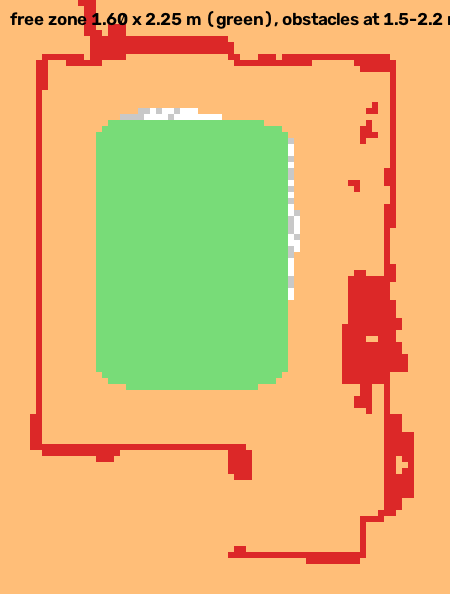
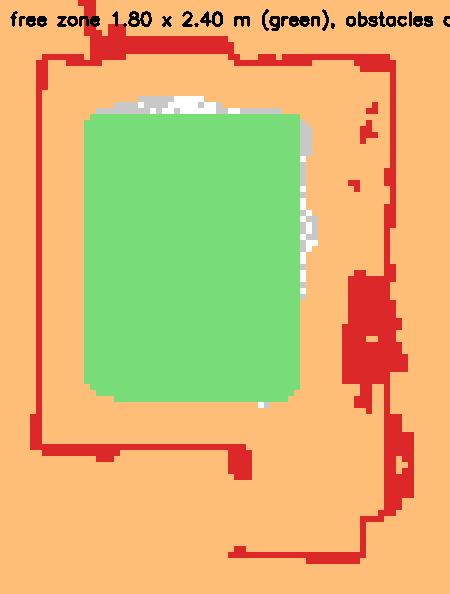
Band flight zone 1.60 x 2.25 -> 1.80 x 2.40 m (margin 0.35 -> 0.25 m: drone half-size 0.1 + pose error 0.07 + reserve); free_zone --z-slack; identification: height limits only once reached (a weak climb aborted the start at 1.38 m), needs 50 % battery

Changed region(s): [[0.1867, 0.1515, 0.7156, 0.697], [0.0311, 0.0, 1.0, 0.0606]]

diff --git a/tools/free_zone.py b/tools/free_zone.py
@@ -70,6 +70,7 @@ def main():
     ap.add_argument("obj")
     ap.add_argument("--z", type=float, nargs=2, default=[1.4, 2.4], help="flight heights (m)")
     ap.add_argument("--margin", type=float, default=0.35, help="clearance from any obstacle (m)")
+    ap.add_argument("--z-slack", type=float, default=0.2, help="obstacles counted down to z_lo - slack and up to z_hi + slack (m)")
     ap.add_argument("--corridor", type=float, default=0.25,
                     help="free passages narrower than ~2x this are cut (keeps the drone in the main region)")
     ap.add_argument("--out", default=str(Path(__file__).resolve().parent.parent / "config" / "flight_zone.yaml"))
@@ -77,7 +78,7 @@ def main():
     V, F = load_obj(a.obj)
     P = surface_points(V, F)
     z_lo, z_hi = a.z
-    obs = P[(P[:, 2] > z_lo - 0.2) & (P[:, 2] < z_hi + 0.2)]
+    obs = P[(P[:, 2] > z_lo - a.z_slack) & (P[:, 2] < z_hi + a.z_slack)]
     x0, y0 = np.percentile(V[:, 0], 0.5) - 0.3, np.percentile(V[:, 1], 0.5) - 0.3
     x1, y1 = np.percentile(V[:, 0], 99.5) + 0.3, np.percentile(V[:, 1], 99.5) + 0.3
     nx, ny = int((x1 - x0) / CELL) + 1, int((y1 - y0) / CELL) + 1
@@ -127,7 +128,7 @@ def main():
     np.savez_compressed(grid, clearance=clearance, x0=x0, y0=y0, cell=CELL, z_lo=z_lo, z_hi=z_hi)
     out.write_text(
         "# Flight zone with no obstacle (tools/free_zone.py, from the room scan): largest free rectangle at\n"
-        f"# flight heights, {a.margin} m from any scanned surface between z {z_lo - 0.2:.1f} and {z_hi + 0.2:.1f} m.\n"
+        f"# flight heights, {a.margin} m from any scanned surface between z {z_lo - a.z_slack:.2f} and {z_hi + a.z_slack:.2f} m.\n"
         f"x_min: {zx0:.2f}\nx_max: {zx1:.2f}\ny_min: {zy0:.2f}\ny_max: {zy1:.2f}\nz_min: {z_lo:.2f}\nz_max: {z_hi:.2f}\n"
         f"margin: {a.margin}\ngrid_file: {grid.name}\n", encoding="utf-8")
     print(f"free zone x [{zx0:.2f}, {zx1:.2f}] y [{zy0:.2f}, {zy1:.2f}] ({zx1 - zx0:.2f} x {zy1 - zy0:.2f} m), "
@@ -142,7 +143,7 @@ def main():
     img[occ] = (40, 40, 220)
     img[i0:i1, j0:j1][~blocked[i0:i1, j0:j1]] = (120, 220, 120)
     img = cv2.resize(img[::-1], None, fx=6, fy=6, interpolation=cv2.INTER_NEAREST)  # y up
-    cv2.putText(img, f"free zone {zx1 - zx0:.2f} x {zy1 - zy0:.2f} m (green), obstacles at {z_lo - .2:.1f}-{z_hi + .2:.1f} m (red), "
+    cv2.putText(img, f"free zone {zx1 - zx0:.2f} x {zy1 - zy0:.2f} m (green), obstacles at {z_lo - a.z_slack:.2f}-{z_hi + a.z_slack:.2f} m (red), "
                 f"margin {a.margin} m (orange)", (10, 25), cv2.FONT_HERSHEY_SIMPLEX, 0.6, (0, 0, 0), 2)
     cv2.imwrite(str(out.with_suffix(".png")), img)
 

diff --git a/src/tello_driver/tello_driver/step_test.py b/src/tello_driver/tello_driver/step_test.py
@@ -97,7 +97,8 @@ class StepTest(Node):
             self.band_z = (self.zone["z_min"], self.zone["z_max"])
             # abort limits: the band +-0.3 m (an identification pulse or a braking overshoot may leave it briefly)
             self.z_min, self.z_max = self.band_z[0] - 0.3, self.band_z[1] + 0.3
-        self.min_battery = p("min_battery", 30).value
+        # identification: 3.5 min of flight and a full climb needed (at 32 % the Tello only climbed to 1.28 m)
+        self.min_battery = p("min_battery", 50 if self.PREFIX == "step" else 30).value
         from tello_driver.home import HOME_FILE
         p("home_file", HOME_FILE)
         prefix = self.PREFIX + ("val" if self.PREFIX == "step" and self.schedule == "valid" else "")
@@ -228,7 +229,11 @@ class StepTest(Node):
                     raise Abort(f"left the flight zone at ({x:+.2f}, {y:+.2f}) m")
             elif abs(x - self.p0[0]) > self.box or abs(y - self.p0[1]) > self.box:
                 raise Abort(f"left the safety box ({x - self.p0[0]:+.2f}, {y - self.p0[1]:+.2f} m from the start)")
-            if not self.z_min <= z <= self.z_max:
+            # the height limits apply once the drone has reached them: on the way up (a weak climb, low battery:
+            # 1.28 m on Nov 13) the test aborted at 1.38 m < 1.40 m while it was still moving to its start point
+            if self.z_min <= z <= self.z_max:
+                self.z_reached = True
+            elif getattr(self, "z_reached", False):
                 raise Abort(f"height {z:.2f} m outside [{self.z_min}, {self.z_max}]")
         if self.pose_age() > self.lost_max:
             raise Abort(f"no marker seen for {self.pose_age():.1f} s")
